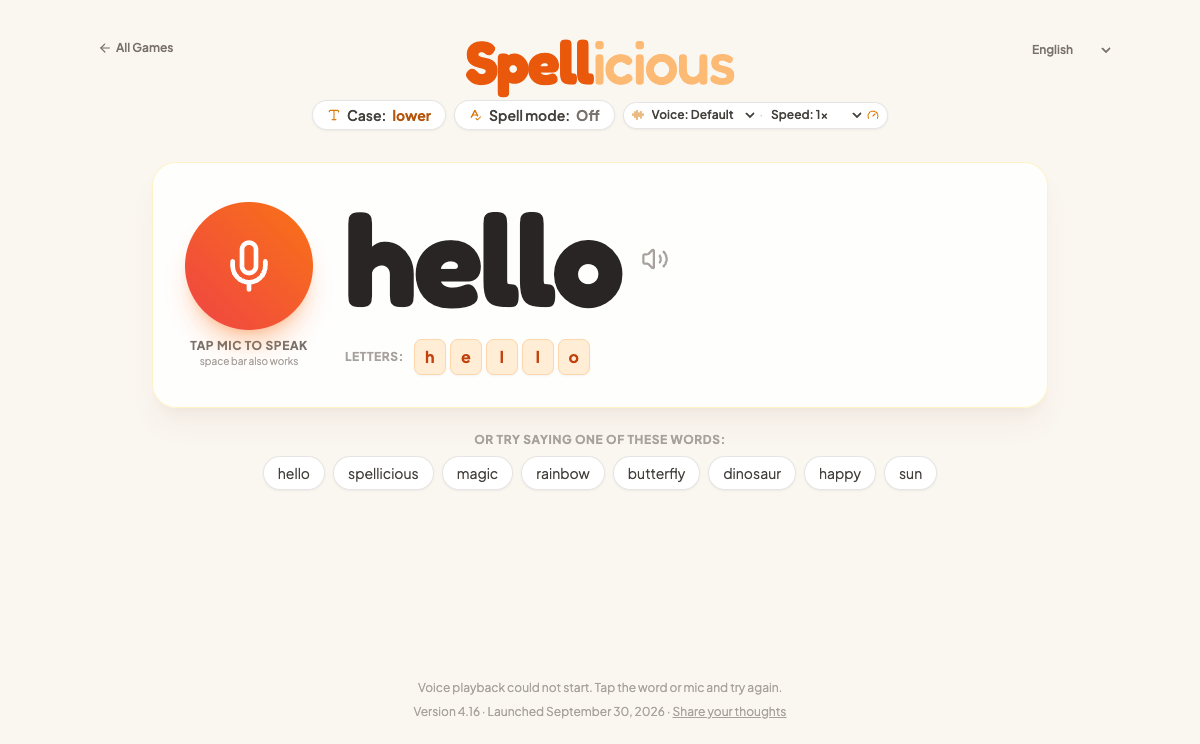
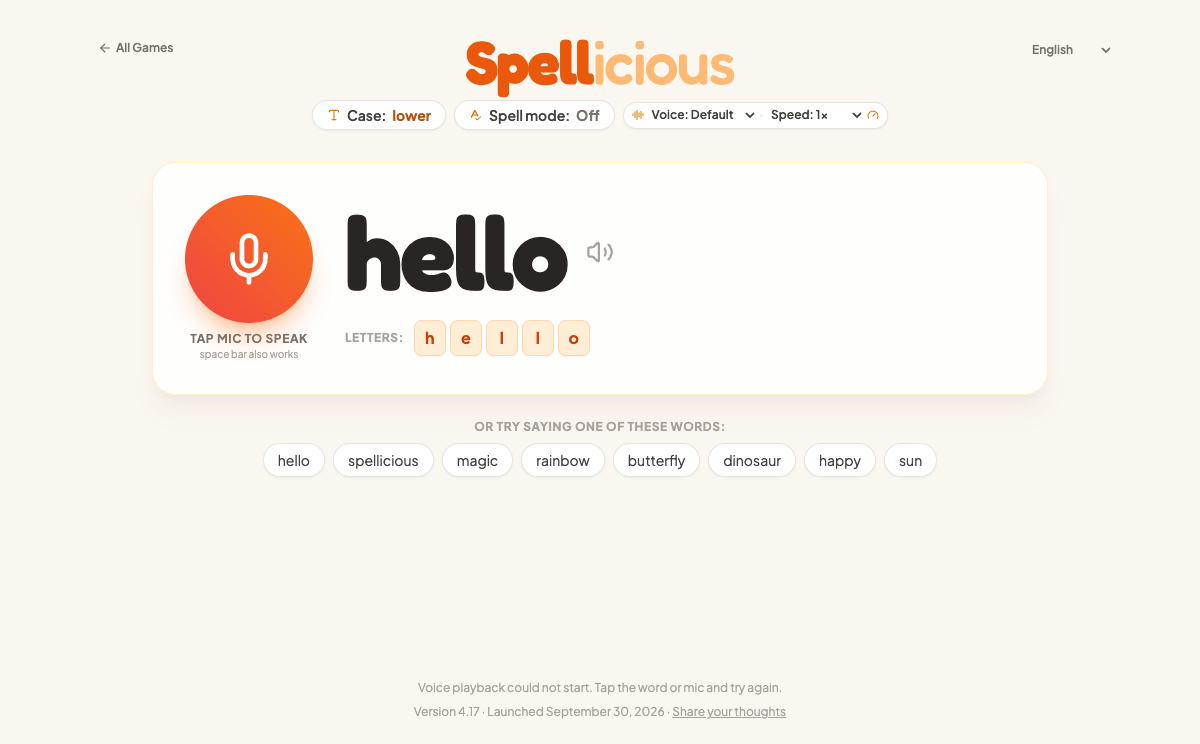
Scale display for longer phrases

diff --git a/spellicious/index.html b/spellicious/index.html
@@ -183,7 +183,7 @@
     <!-- Footer Status -->
     <footer class="w-full max-w-4xl mx-auto mt-auto text-center text-xs text-stone-400 pt-4">
         <p id="statusText">Microphone ready. Powered by high-clarity voice synthesis.</p>
-        <p class="mt-2">Version 4.16 · Launched <time datetime="2026-09-30">September 30, 2026</time> · <a class="underline" href="../feedback/?game=spellicious&amp;v=4.16">Share your thoughts</a></p>
+        <p class="mt-2">Version 4.17 · Launched <time datetime="2026-09-30">September 30, 2026</time> · <a class="underline" href="../feedback/?game=spellicious&amp;v=4.17">Share your thoughts</a></p>
     </footer>
 
     <script>
@@ -677,6 +677,7 @@
         function renderWordDisplay(text) {
             const wordDisplay = document.getElementById('wordDisplay');
             wordDisplay.innerHTML = '';
+            fitWordDisplay(text);
             let wordIndex = 0;
             text.split(/(\s+)/).forEach(part => {
                 if (/\s+/.test(part)) {
@@ -706,6 +707,15 @@
                 wordDisplay.appendChild(word);
                 wordIndex += 1;
             });
+        }
+
+        function fitWordDisplay(text) {
+            const wordDisplay = document.getElementById('wordDisplay');
+            const characterCount = Math.max(3, [...text].length);
+            const availableWidth = Math.max(280, wordDisplay.clientWidth || window.innerWidth - 32);
+            const widthFitRem = availableWidth / (characterCount * 0.58 * 16);
+            const lengthScaleRem = 9 - Math.max(0, characterCount - 3) * 0.17;
+            wordDisplay.style.fontSize = `${Math.max(2.25, Math.min(9, widthFitRem, lengthScaleRem))}rem`;
         }
 
         function renderInteractiveLetters(text) {
@@ -810,6 +820,8 @@
         function updateStatus(msg) {
             document.getElementById('statusText').textContent = msg;
         }
+
+        window.addEventListener('resize', () => fitWordDisplay(getFormattedText()));
     </script>
 </body>
 </html>
